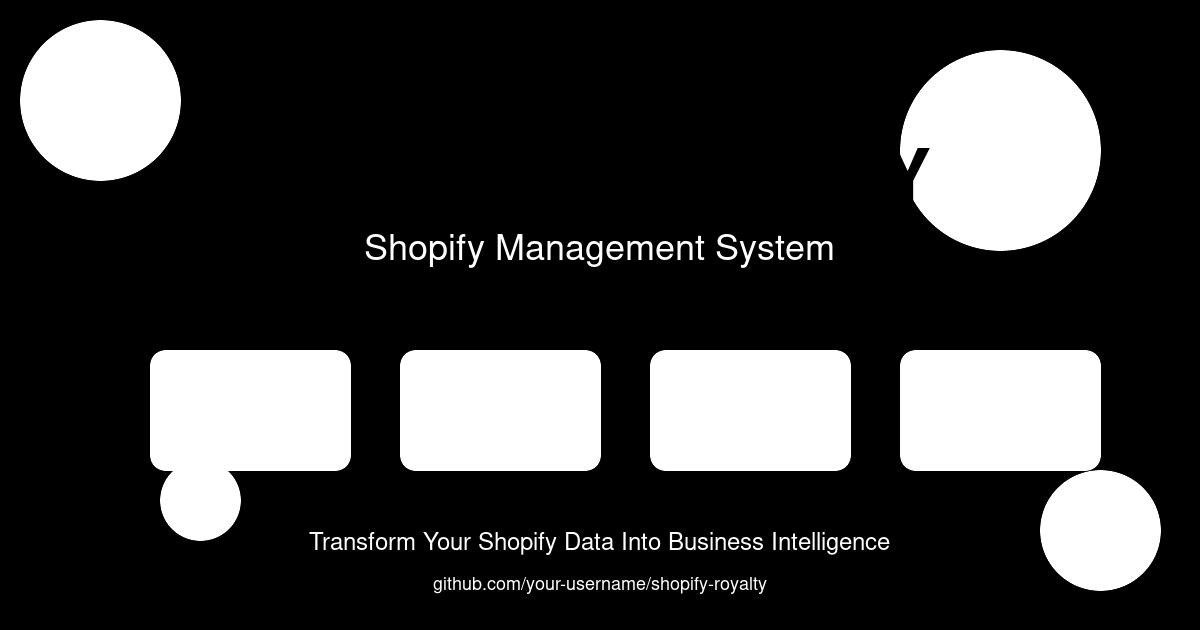
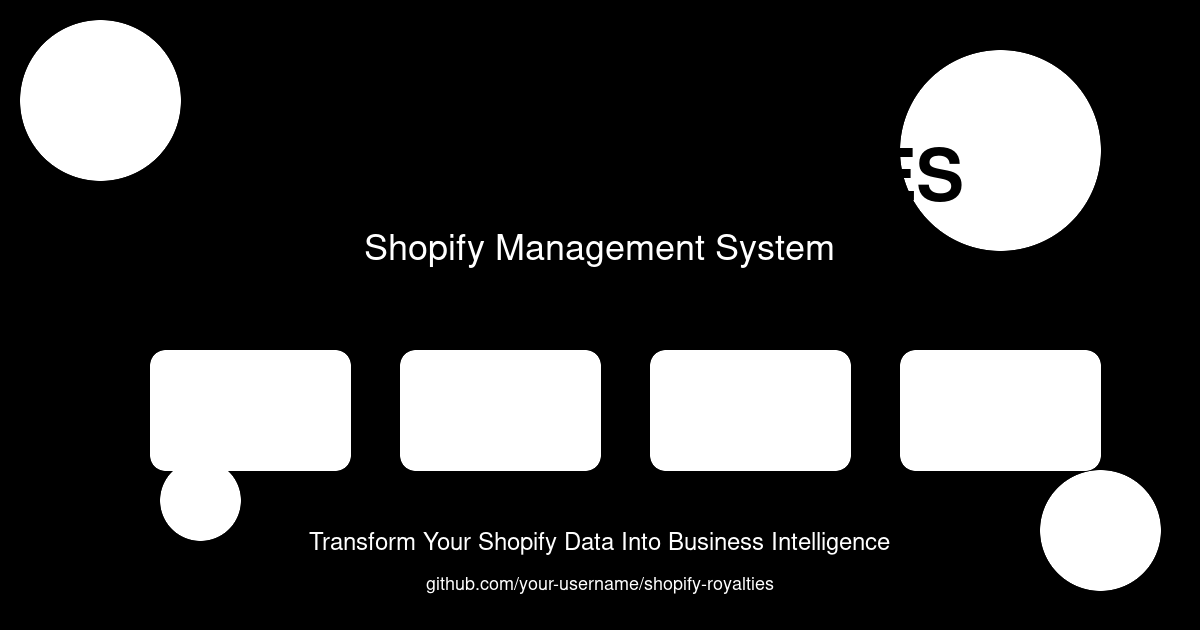
🔄 Update branding: Royalty → Royalties
✨ Linguistic fix:
- Changed all 'Shopify Royalty' to 'Shopify Royalties' (correct plural)
- Updated README, web interface, documentation, and assets
- Regenerated PNG assets with correct branding
- Updated database name and all configuration references

📝 This makes the English more grammatically correct and professional!

Changed region(s): [[0.3392, 0.9048, 0.6475, 0.9349], [0.74, 0.2111, 0.8017, 0.3317]]

diff --git a/web/index.html b/web/index.html
@@ -3,7 +3,7 @@
 <head>
     <meta charset="UTF-8">
     <meta name="viewport" content="width=device-width, initial-scale=1.0">
-    <title>Shopify Royalty - Database Dashboard Hub</title>
+    <title>Shopify Royalties - Database Dashboard Hub</title>
     <link href="https://cdn.jsdelivr.net/npm/bootstrap@5.1.3/dist/css/bootstrap.min.css" rel="stylesheet">
     <style>
         .hero {
@@ -27,7 +27,7 @@
 <body class="bg-light">
     <div class="hero">
         <div class="container text-center">
-            <h1 class="display-4">🏪 SHOPIFY ROYALTY</h1>
+            <h1 class="display-4">🏪 SHOPIFY ROYALTIES</h1>
             <p class="lead">Shopify Database Dashboard Hub</p>
             <p>Velg hvordan du vil se og redigere Shopify-dataene</p>
         </div>
@@ -168,7 +168,7 @@
     </div>
 
     <footer class="mt-5 py-4 bg-dark text-light text-center">
-        <p>&copy; 2025 Shopify Royalty - Database Dashboard Hub</p>
+        <p>&copy; 2025 Shopify Royalties - Database Dashboard Hub</p>
         <p><small>Generert: <?php echo date('Y-m-d H:i:s'); ?></small></p>
     </footer>
 

diff --git a/web/shopify_database_viewer.html b/web/shopify_database_viewer.html
@@ -4,7 +4,7 @@
     <head>
         <meta charset="UTF-8">
         <meta name="viewport" content="width=device-width, initial-scale=1.0">
-        <title>Shopify Royalty - Shopify Database Oversikt</title>
+        <title>Shopify Royalties - Shopify Database Oversikt</title>
         <link href="https://cdn.jsdelivr.net/npm/bootstrap@5.1.3/dist/css/bootstrap.min.css" rel="stylesheet">
         <style>
             .table-container {
@@ -28,7 +28,7 @@
     <body class="bg-light">
         <nav class="navbar navbar-dark">
             <div class="container">
-                <span class="navbar-brand">🗄 Shopify Royalty - Shopify Database Oversikt</span>
+                <span class="navbar-brand">🗄 Shopify Royalties - Shopify Database Oversikt</span>
                 <span class="text-light">Generert: 2025-09-20 19:24:25</span>
             </div>
         </nav>

diff --git a/config/shopify_config.template.py b/config/shopify_config.template.py
@@ -1,4 +1,4 @@
-# Shopify Royalty Management System Configuration
+# Shopify Royalties Management System Configuration
 # Copy this file to 'shopify_config.py' and fill in your actual values
 
 # Shopify Store Configuration

diff --git a/README.md b/README.md
@@ -1,4 +1,4 @@
-![Shopify Royalty Management System](assets/social-banner.png)
+![Shopify Royalties Management System](assets/social-banner.png)
 
 ```
 ███████╗██╗  ██╗ ██████╗ ██████╗ ██╗███████╗██╗   ██╗    ██████╗  ██████╗ ██╗   ██╗ █████╗ ██╗  ████████╗██╗   ██╗
@@ -8,7 +8,7 @@
 ███████║██║  ██║╚██████╔╝██║     ██║██║        ██║       ██║  ██║╚██████╔╝   ██║   ██║  ██║███████╗██║      ██║   
 ╚══════╝╚═╝  ╚═╝ ╚═════╝ ╚═╝     ╚═╝╚═╝        ╚═╝       ╚═╝  ╚═╝ ╚═════╝    ╚═╝   ╚═╝  ╚═╝╚══════╝╚═╝      ╚═╝   
                                                                                                                     
-    🛍 SHOPIFY ROYALTY MANAGEMENT SYSTEM 🛍
+    🛍 SHOPIFY ROYALTIES MANAGEMENT SYSTEM 🛍
     ═════════════════════════════════════════════════════════════════════════
     📊 Complete E-commerce Data Control & Business Intelligence Platform 📊
     ═════════════════════════════════════════════════════════════════════════
@@ -30,9 +30,9 @@
 
 ---
 
-## 🎯 **The Ultimate Shopify Royalty Management Solution**
+## 🎯 **The Ultimate Shopify Royalties Management Solution**
 
-A comprehensive Shopify data management system with automated backups, database storage, and web-based dashboards for complete e-commerce data control and royalty tracking.
+A comprehensive Shopify data management system with automated backups, database storage, and web-based dashboards for complete e-commerce data control and royalties tracking.
 
 ## 📋 Table of Contents
 

diff --git a/DEPLOYMENT_SUMMARY.md b/DEPLOYMENT_SUMMARY.md
@@ -1,13 +1,13 @@
 # 🎉 DEPLOYMENT SUMMARY
 
-## ✅ Complete Shopify Royalty Management System Ready for GitHub!
+## ✅ Complete Shopify Royalties Management System Ready for GitHub!
 
-Systemet er nå klart for upload til **https://github.com/your-username/shopify-royalty**
+Systemet er nå klart for upload til **https://github.com/your-username/shopify-royalties**
 
 ### 📂 Prosjektstruktur
 
 ```
-shopify-royalty/
+shopify-royalties/
 ├── 📖 README.md                          # Omfattende installasjonsveiledning
 ├── 🤖 COPILOT_SETUP.md                   # GitHub Copilot Pro automatisk setup
 ├── ⚖ LICENSE                            # MIT lisens
@@ -73,8 +73,8 @@ Se COPILOT_SETUP.md for automatisk setup via VS Code
 
 #### 🛠 Manuell Installasjon:
 ```bash
-git clone https://github.com/your-username/shopify-royalty.git
-cd shopify-royalty
+git clone https://github.com/your-username/shopify-royalties.git
+cd shopify-royalties
 sudo ./setup.sh
 ```
 
